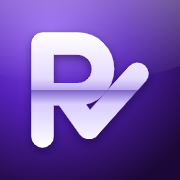
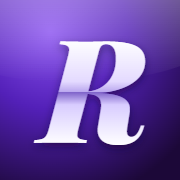
Ícone: só o R em Playfair Display Black itálico, roxo cromado; menu usa o mesmo ícone; sw v18
Claude-Session: https://claude.ai/code/session_01S2KnhMp8BeXymxvxoNEECe

Changed region(s): [[0.1389, 0.1667, 0.8333, 0.8333]]

diff --git a/index.html b/index.html
@@ -7,7 +7,6 @@
 <link rel="manifest" href="manifest.webmanifest">
 <meta name="theme-color" content="#313E27">
 <link rel="icon" type="image/png" sizes="32x32" href="favicon-32.png">
-<link rel="icon" type="image/svg+xml" href="logo.svg">
 <link rel="apple-touch-icon" href="apple-touch-icon.png">
 <meta name="apple-mobile-web-app-capable" content="yes">
 <meta name="mobile-web-app-capable" content="yes">
@@ -659,7 +658,7 @@ tr.auto td,tr.auto td.cn{background:var(--b50)}
 </style>
 </head>
 <body>
-<aside class="sb" id="sb" aria-label="Menu"><div class="sb-br"><div class="sb-mk"><svg class="sb-logo" viewBox="0 0 512 512" aria-hidden="true"><defs> <radialGradient id="mf" cx="28%" cy="18%" r="95%"><stop offset="0" stop-color="#8A52F0"/><stop offset=".45" stop-color="#5320B8"/><stop offset="1" stop-color="#1C0838"/></radialGradient> <linearGradient id="mc" x1="0" y1="96" x2="0" y2="424" gradientUnits="userSpaceOnUse">  <stop offset="0" stop-color="#FFFFFF"/><stop offset=".40" stop-color="#E4DAFF"/><stop offset=".5" stop-color="#B9A6EE"/>  <stop offset=".5" stop-color="#7E62C9"/><stop offset=".62" stop-color="#D8CCFF"/><stop offset="1" stop-color="#FFFFFF"/></linearGradient> <linearGradient id="mg" x1="0" y1="0" x2="0" y2="1"><stop offset="0" stop-color="#fff" stop-opacity=".30"/><stop offset="1" stop-color="#fff" stop-opacity="0"/></linearGradient> <filter id="ms" x="-20%" y="-20%" width="140%" height="140%"><feDropShadow dx="0" dy="10" stdDeviation="12" flood-color="#12052A" flood-opacity=".55"/></filter></defs><rect width="512" height="512" rx="112" fill="url(#mf)"/><path d="M0 0H512V188C380 236 160 250 0 214Z" fill="url(#mg)"/><g transform="translate(-29 -4) scale(1)" filter="url(#ms)" fill="none" stroke="url(#mc)" stroke-width="64" stroke-linecap="round" stroke-linejoin="round"> <path d="M150 392V128H250A72 72 0 0 1 250 272H150"/> <path d="M214 272L282 368L420 214"/></g></svg><div><h1>Resolve Aê</h1><small>Controle financeiro</small></div></div><div class="yr-sel" id="yrsel"></div></div><nav class="sb-nav" id="sbn"></nav><div class="sb-sync"><button onclick="exportData()"><svg class="i" viewBox="0 0 24 24" aria-hidden="true"><path d="M12 4v11M7 10l5 5 5-5M5 20h14"/></svg>Exportar</button><button onclick="document.getElementById('syncFile').click()"><svg class="i" viewBox="0 0 24 24" aria-hidden="true"><path d="M12 20V9M7 14l5-5 5 5M5 4h14"/></svg>Importar<input type='file' id='syncFile' accept='.json' style='display:none' onchange='importData(this.files[0])'></button></div><div class="sb-ft" id="syncFt" onclick="sincronizarAgora()" title="Toque para sincronizar agora" role="button" tabindex="0"><span class="dot" id="syncDot"></span><span id="syncTxt">Iniciando…</span></div></aside>
+<aside class="sb" id="sb" aria-label="Menu"><div class="sb-br"><div class="sb-mk"><img class="sb-logo" src="icone-192.png" alt="" width="40" height="40"><div><h1>Resolve Aê</h1><small>Controle financeiro</small></div></div><div class="yr-sel" id="yrsel"></div></div><nav class="sb-nav" id="sbn"></nav><div class="sb-sync"><button onclick="exportData()"><svg class="i" viewBox="0 0 24 24" aria-hidden="true"><path d="M12 4v11M7 10l5 5 5-5M5 20h14"/></svg>Exportar</button><button onclick="document.getElementById('syncFile').click()"><svg class="i" viewBox="0 0 24 24" aria-hidden="true"><path d="M12 20V9M7 14l5-5 5 5M5 4h14"/></svg>Importar<input type='file' id='syncFile' accept='.json' style='display:none' onchange='importData(this.files[0])'></button></div><div class="sb-ft" id="syncFt" onclick="sincronizarAgora()" title="Toque para sincronizar agora" role="button" tabindex="0"><span class="dot" id="syncDot"></span><span id="syncTxt">Iniciando…</span></div></aside>
 <div class="sbo" id="sbo" onclick="tsb()"></div>
 <div class="mn"><header class="hd" id="hd"></header><main class="ct" id="ct"></main></div>
 <nav class="tab" id="tab" aria-label="Navegação principal"></nav>

diff --git a/sw.js b/sw.js
@@ -1,7 +1,7 @@
 // Service worker do Resolve Aê
 // Regra: guarda a casca do app para abrir offline, mas NUNCA guarda dado da planilha.
 // Ao publicar mudanca no app, suba o numero da versao abaixo.
-const VERSAO = 'resolveae-v17';
+const VERSAO = 'resolveae-v18';
 const CASCA = [
   './',
   './index.html',
@@ -12,7 +12,6 @@ const CASCA = [
   './apple-touch-icon.png',
   './favicon-32.png',
   './icone-maskable-512.png',
-  './logo.svg',
   './CreatoDisplay-Regular.otf',
   './CreatoDisplay-Medium.otf',
   './CreatoDisplay-Black.otf'
